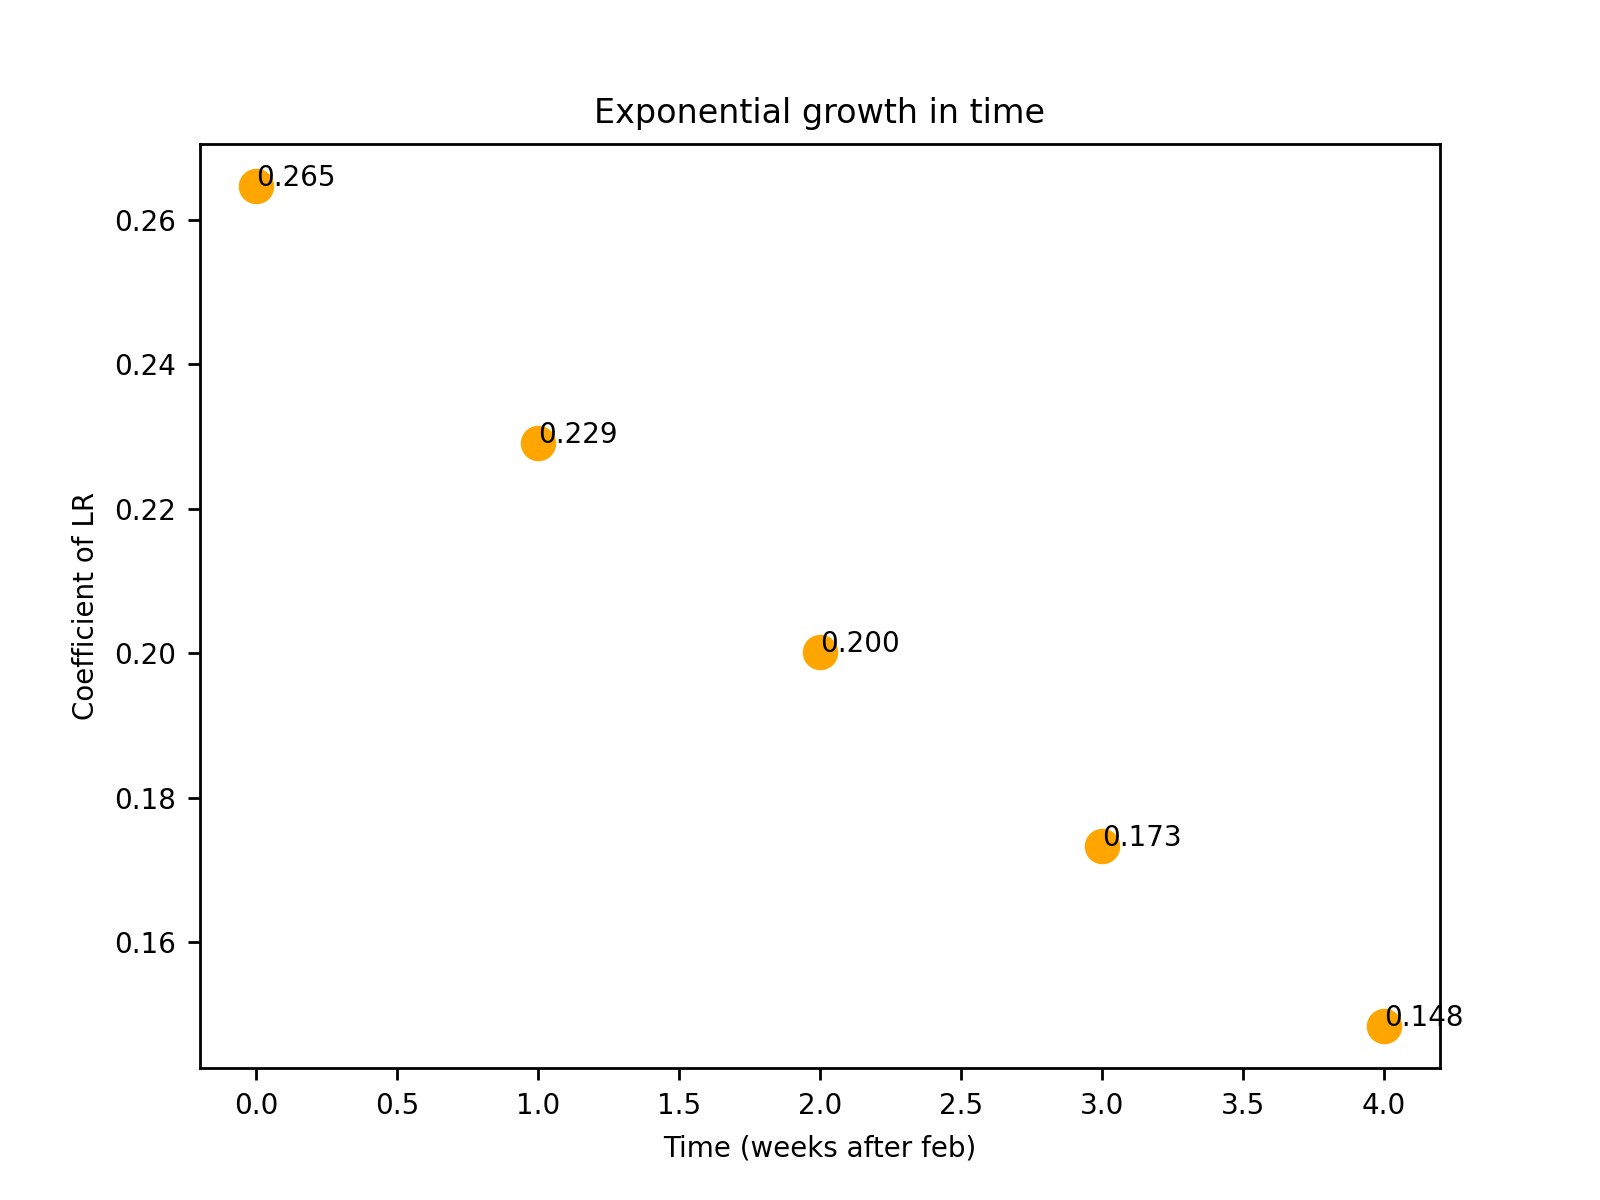
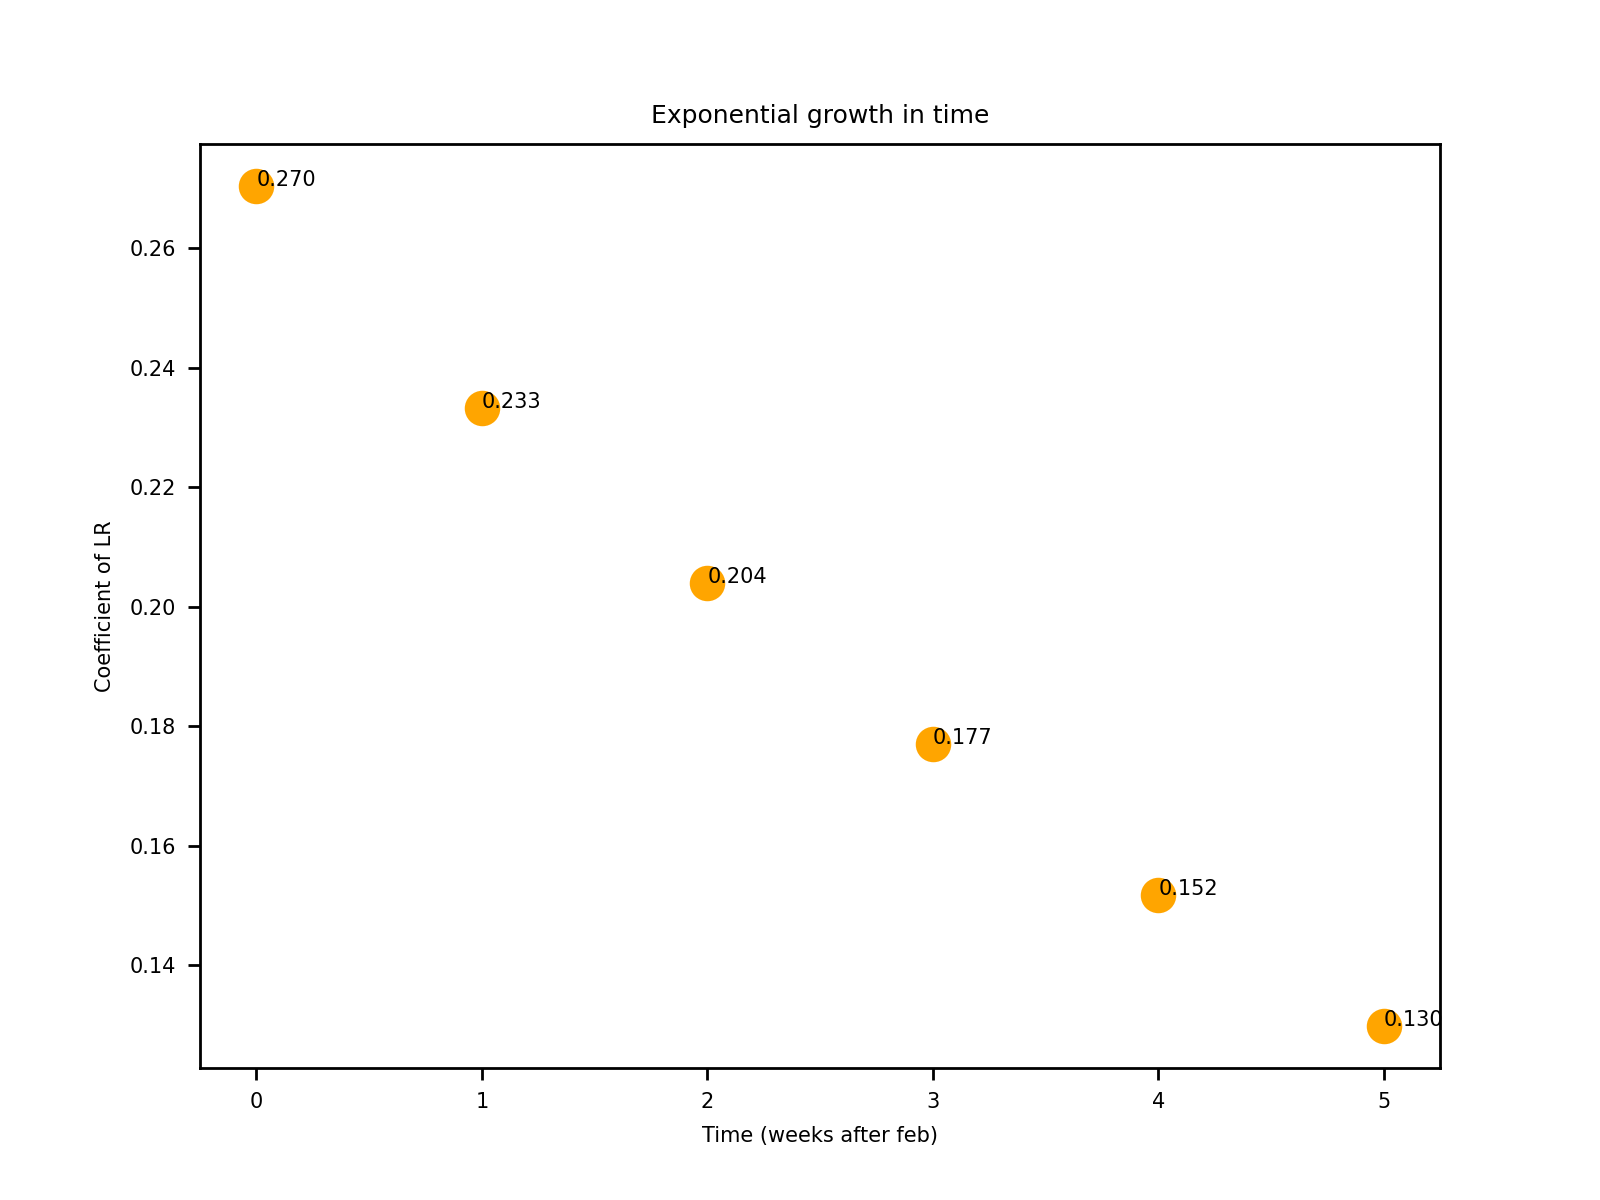
modified new fit 2 for tomorrow

diff --git a/new_fit_2.py b/new_fit_2.py
@@ -6,7 +6,7 @@ import pandas as pd
 #models
 from sklearn.linear_model import LinearRegression
 
-matplotlib.rcParams.update({'font.size': 8})
+matplotlib.rcParams.update({'font.size': 6})
 
 #import data
 dataset = pd.read_csv('./dati/dpc-covid19-ita-andamento-nazionale.csv')
@@ -24,10 +24,11 @@ regressor2 = LinearRegression()
 regressor3 = LinearRegression()
 regressor4 = LinearRegression()
 regressor5 = LinearRegression()
+regressor6 = LinearRegression()
 
-regressors = (regressor1,regressor2,regressor3,regressor4,regressor5)
+regressors = (regressor1,regressor2,regressor3,regressor4,regressor5, regressor6)
 
-map = {1:-28, 2:-21, 3:-14, 4:-7, 5:None}
+map = {1:-35, 2:-28, 3:-21, 4:-14, 5:-7, 6:None}
 
 log_y_pred = []
 scores = []
@@ -42,7 +43,7 @@ for reg, i in zip(regressors, range(1, len(regressors)+1)):
     growths.append(reg.coef_[0]) # coefficients reg.coef_ is an array in general, when fitting multidimensional X values
     n0s.append(reg.intercept_)  # intercepts
 
-colors = ('grey', 'green', 'purple', 'brown', 'blue')
+colors = ('orange', 'grey', 'green', 'purple', 'brown', 'blue')
 
 #plot of fit vs data
 plt.scatter(x,log_y,color = 'red')
@@ -52,13 +53,14 @@ for i in range(len(regressors)):
 plt.xlabel('Time (days after 24/02)')
 plt.ylabel('Log of Total Cases')
 plt.legend((
-'4 weeks ago (R2={:.3f})'.format(scores[0]),
-'3 weeks ago (R2={:.3f})'.format(scores[1]),
-'2 weeks ago (R2={:.3f})'.format(scores[2]),
-'1 week ago  (R2={:.3f})'.format(scores[3]),
-'today (R2={:.3f})'.format(scores[4]),
+'5 weeks ago (R2={:.3f})'.format(scores[0]),
+'4 weeks ago (R2={:.3f})'.format(scores[1]),
+'3 weeks ago (R2={:.3f})'.format(scores[2]),
+'2 weeks ago (R2={:.3f})'.format(scores[3]),
+'1 week ago  (R2={:.3f})'.format(scores[4]),
+'today (R2={:.3f})'.format(scores[5]),
 'log data'),
-loc='upper right', bbox_to_anchor=(1.05, 1.15), ncol=3)
+loc='upper right', bbox_to_anchor=(1.05, 1.15), ncol=4)
 plt.grid(color='lightgray', linestyle='--', linewidth=0.5)
 plt.savefig('./FIT2/fit_1_time.png', dpi=250)
 plt.tight_layout()
@@ -73,13 +75,14 @@ plt.xlabel('Time (days after 24/02)')
 plt.ylabel('Total Cases')
 plt.ylim([0,1000000])
 plt.legend((
-'4 weeks ago (R2={:.3f})'.format(scores[0]),
-'3 weeks ago (R2={:.3f})'.format(scores[1]),
-'2 weeks ago (R2={:.3f})'.format(scores[2]),
-'1 week ago  (R2={:.3f})'.format(scores[3]),
-'today (R2={:.3f})'.format(scores[4]),
+'5 weeks ago (R2={:.3f})'.format(scores[0]),
+'4 weeks ago (R2={:.3f})'.format(scores[1]),
+'3 weeks ago (R2={:.3f})'.format(scores[2]),
+'2 weeks ago (R2={:.3f})'.format(scores[3]),
+'1 week ago  (R2={:.3f})'.format(scores[4]),
+'today (R2={:.3f})'.format(scores[5]),
 'data'),
-loc='upper right', bbox_to_anchor=(1.05, 1.15), ncol=3)
+loc='upper right', bbox_to_anchor=(1.05, 1.15), ncol=4)
 plt.grid(color='lightgray', linestyle='--', linewidth=0.5)
 plt.tight_layout()
 plt.savefig('./FIT2/fit_2_time.png', dpi=250)
@@ -88,7 +91,7 @@ plt.close()
 
 ################################################################################################################################
 
-weeks = [i for i in range(5)]
+weeks = [i for i in range(len(regressors))]
 
 fig = plt.figure()
 ax = fig.add_subplot(1, 1, 1)
